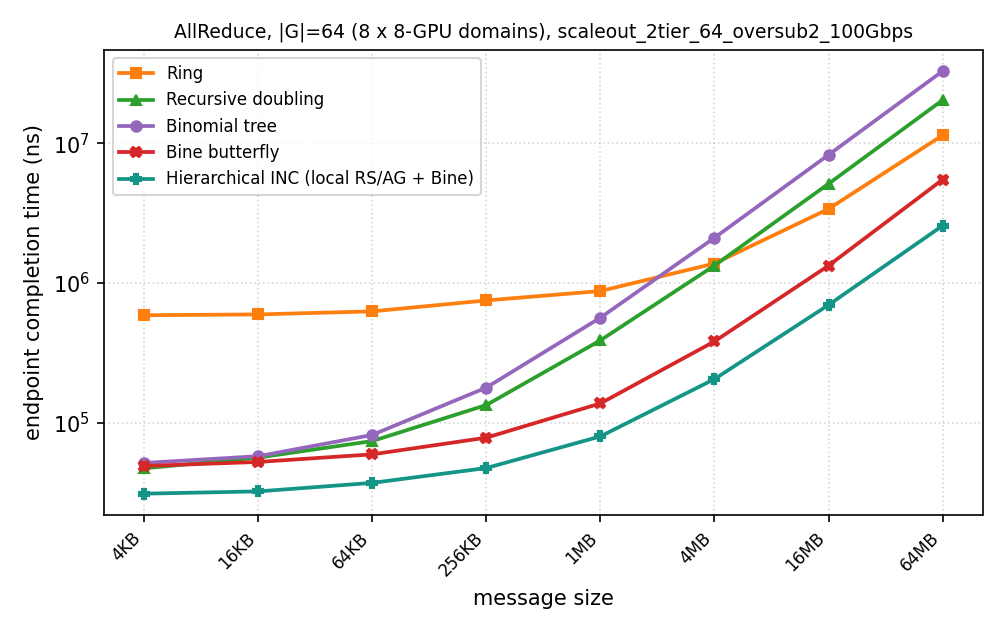
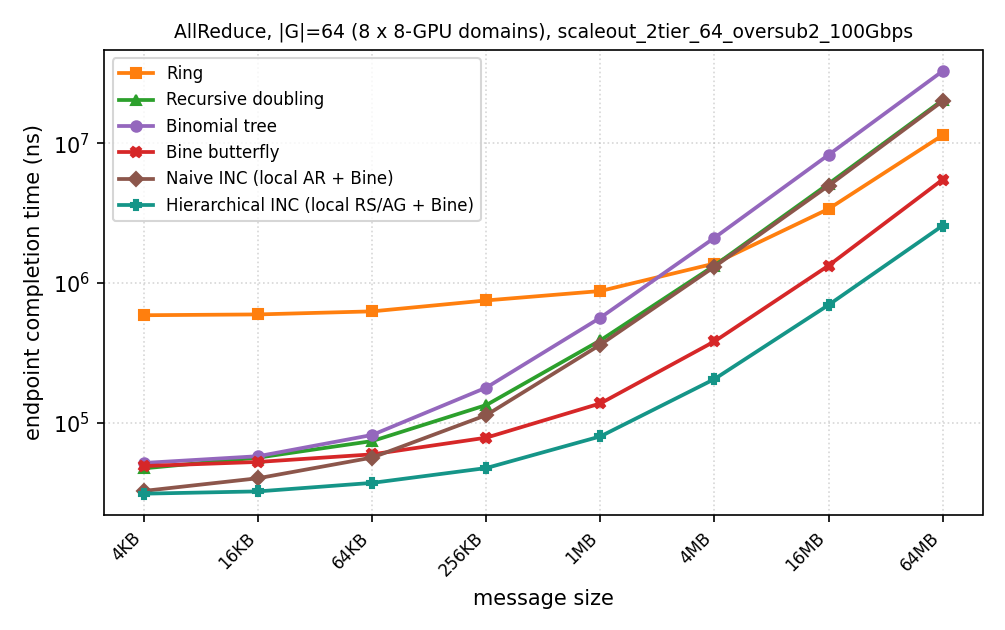
experiments: add naive scaleout INC baseline

diff --git a/simulation-scripts/experiments/scaleout_allreduce/run.py b/simulation-scripts/experiments/scaleout_allreduce/run.py
@@ -9,10 +9,14 @@ scale-up crossbar.
 
 The simulator's first-class INC primitive is intentionally node-local, so it
 cannot represent a single 64-rank in-network operation across scale-up domains.
-The default measurement therefore adds the semantically complete hierarchical
-variant: local INC ReduceScatter, lane-parallel Bine AllReduce across scale-out,
-then local INC AllGather.  ``plot.py`` labels it explicitly rather than
-presenting it as a hypothetical global in-network switch.
+The default measurement adds two valid multi-domain INC compositions.  The
+naive variant uses the existing node-local INC AllReduce followed by a
+full-buffer Bine AllReduce on every local-rank lane.  The hierarchical variant
+instead shards the buffer with local INC ReduceScatter, uses the same
+lane-parallel global AllReduce, then reconstructs it with local INC AllGather.
+The former is intentionally bandwidth-inefficient, but provides a direct
+baseline for the latter.  ``plot.py`` labels both explicitly rather than
+presenting either as a hypothetical global in-network switch.
 """
 import argparse
 import os
@@ -30,6 +34,7 @@ DEFAULT_SU_TOPO = "scaleup_single_switch_8_12800Gbps.topo"
 DEFAULT_SO_TOPO = "scaleout_2tier_64_oversub2_100Gbps.topo"
 DEFAULT_ALGOS = ("ring", "rdouble", "tree", "bine")
 HIERARCHICAL_INC_ALGO = "hier_inc_bine"
+NAIVE_INC_ALGO = "naive_inc_bine"
 INTRANODE_LINKSPEED = 12800000  # 12.8 Tbps, matched to DEFAULT_SU_TOPO.
 
 OUTPUT_DIR = os.environ.get("SCALEOUT_OUTPUT_DIR", paths.results_dir(EXP_NAME))
@@ -38,7 +43,7 @@ CSV_FIELDS = ["collective", "baseline_algo", "group_size", "gpus_per_node", "msg
               "intranode_linkspeed_mbps", "engine", "log_file", "command"]
 
 
-def run_exp(n, gpus_per_node, sizes, algos, hierarchical_inc,
+def run_exp(n, gpus_per_node, sizes, algos, hierarchical_inc, naive_inc, inc_only,
             su_topo, so_topo, tmpdir, timeout):
     """Generate and run direct endpoint schedules on a multi-domain fabric."""
     if n < 2 or n & (n - 1):
@@ -55,7 +60,7 @@ def run_exp(n, gpus_per_node, sizes, algos, hierarchical_inc,
     csv_path = os.path.join(OUTPUT_DIR, f"{EXP_NAME}.csv")
     failures = 0
     with report.CsvAppender(csv_path, CSV_FIELDS) as out:
-        for algo in algos:
+        for algo in (() if inc_only else algos):
             report.print_info(
                 f"=== allreduce baseline={algo} N={n} ({n // gpus_per_node} x {gpus_per_node}-GPU domains) ===")
             for size in sizes:
@@ -125,6 +130,42 @@ def run_exp(n, gpus_per_node, sizes, algos, hierarchical_inc,
                 })
                 print(f"  {size:>10}b  HIER-INC {str(base_ns):>6}  "
                       f"{'ok' if ok else f'{status}, drops={drops}'}")
+        if naive_inc:
+            report.print_info("=== allreduce naive INC (local AllReduce + full-buffer Bine lanes) "
+                              f"N={n} ({n // gpus_per_node} x {gpus_per_node}-GPU domains) ===")
+            for size in sizes:
+                if size % n:
+                    report.print_warning(f"{size}: skip (not divisible by N={n})")
+                    continue
+                stem = f"allreduce_{NAIVE_INC_ALGO}_{n}_{size}"
+                trace = os.path.join(tmpdir, stem + ".goal")
+                groups = trace[:-5] + ".groups"
+                goal.gen_naive_hierarchical_inc_allreduce_goal(
+                    trace, groups, n, gpus_per_node, size, "bine", TAIL_NS)
+                binary = trace[:-5] + ".bin"
+                goal.compile_goal(trace, binary)
+                finish, drops, status, command, _ = sim.run_sim(
+                    binary, so_topo, su_topo, nodes=n, gpus_per_node=gpus_per_node,
+                    groups=groups, timeout=timeout, intranode_linkspeed=INTRANODE_LINKSPEED)
+                base_ns = finish - TAIL_NS if finish else None
+                ok = bool(base_ns and status == "ok" and drops == 0)
+                if not ok:
+                    failures += 1
+                log = os.path.join(OUTPUT_DIR, "logs", stem + ".log")
+                os.makedirs(os.path.dirname(log), exist_ok=True)
+                with open(log, "w") as stream:
+                    stream.write(command + "\n")
+                out.write({
+                    "collective": "allreduce", "baseline_algo": NAIVE_INC_ALGO,
+                    "group_size": n, "gpus_per_node": gpus_per_node, "msg_bytes": size,
+                    "base_ns": base_ns or "", "base_makespan_ns": finish or "", "drops": drops,
+                    "fabric": "naive_inc_local_allreduce_full_buffer_lanes",
+                    "su_topo": os.path.basename(su_topo), "so_topo": os.path.basename(so_topo),
+                    "intranode_linkspeed_mbps": INTRANODE_LINKSPEED, "engine": "pcm-sdk",
+                    "log_file": log, "command": command,
+                })
+                print(f"  {size:>10}b  NAIVE-INC {str(base_ns):>5}  "
+                      f"{'ok' if ok else f'{status}, drops={drops}'}")
     if failures:
         report.print_error(f"{failures} simulation cell(s) failed; partial CSV: {csv_path}")
         return 1
@@ -142,6 +183,10 @@ def main():
                         help="comma-separated endpoint algorithms: ring,rdouble,tree,bine")
     parser.add_argument("--without-hierarchical-inc", action="store_false", dest="hierarchical_inc",
                         help="omit the local INC RS/AG + lane-Bine comparison arm")
+    parser.add_argument("--without-naive-inc", action="store_false", dest="naive_inc",
+                        help="omit the local INC AllReduce + full-buffer lane-Bine arm")
+    parser.add_argument("--inc-only", action="store_true",
+                        help="run only selected INC composition arms (reuse existing endpoint CSV rows)")
     parser.add_argument("--su-topo", default=DEFAULT_SU_TOPO)
     parser.add_argument("--so-topo", default=DEFAULT_SO_TOPO)
     parser.add_argument("--tmpdir", default="/tmp/scaleout_allreduce")
@@ -158,7 +203,10 @@ def main():
     goal.require_generator()
     sim.require_simulator()
     sizes = [int(s) for s in args.sizes.split(",")]
+    if args.inc_only and not (args.hierarchical_inc or args.naive_inc):
+        parser.error("--inc-only needs at least one INC arm")
     sys.exit(run_exp(args.n, args.gpus_per_node, sizes, algos, args.hierarchical_inc,
+                     args.naive_inc, args.inc_only,
                      paths.topo(args.su_topo), paths.topo(args.so_topo),
                      args.tmpdir, args.timeout))
 

diff --git a/simulation-scripts/common/goal.py b/simulation-scripts/common/goal.py
@@ -446,6 +446,77 @@ def gen_hierarchical_inc_allreduce_goal(path, groups_path, n, gpus_per_node, siz
         f.write(" ".join(str(rank) for rank in range(gpus_per_node)) + "\n")
 
 
+def gen_naive_hierarchical_inc_allreduce_goal(path, groups_path, n, gpus_per_node, size,
+                                              global_algo, tail_ns):
+    """Emit the direct two-level composition of the existing local INC primitive.
+
+    First run the existing ``coll allreduce`` independently in every scale-up
+    domain.  Then every matching local-rank lane performs a *full-buffer*
+    endpoint AllReduce across scale-out domains.  The composition is correct,
+    but intentionally naive: all ``gpus_per_node`` lanes ship the entire S-byte
+    result over scale-out.  In contrast,
+    :func:`gen_hierarchical_inc_allreduce_goal` uses local ReduceScatter and
+    AllGather so every lane ships only S/gpus_per_node.
+
+    This is the closest valid multi-domain version of the pre-existing remote
+    local INC path.  A literal 64-rank ``coll allreduce`` is invalid because
+    the PCM INC groups and FIBs are deliberately node-local.
+    """
+    if n < 2 or n & (n - 1):
+        raise ValueError(f"naive hierarchical INC AllReduce needs power-of-two N >= 2; got {n}")
+    if gpus_per_node < 2 or gpus_per_node & (gpus_per_node - 1):
+        raise ValueError(f"gpus_per_node must be a power of two >= 2; got {gpus_per_node}")
+    if n % gpus_per_node:
+        raise ValueError(f"N={n} must be divisible by gpus_per_node={gpus_per_node}")
+    if size <= 0 or size % (n // gpus_per_node):
+        raise ValueError(f"size must be positive and divisible by domain count; got {size}")
+    if global_algo not in ("rdouble", "bine"):
+        raise ValueError(f"unsupported naive global algorithm {global_algo!r}")
+
+    domains = n // gpus_per_node
+    stages = domains.bit_length() - 1
+
+    def peer_index(index, stage):
+        return (index ^ (1 << stage) if global_algo == "rdouble"
+                else _bine_partner(index, stage, domains))
+
+    def tag(stage, phase):
+        return f"8{stage:05d}{phase:03d}"
+
+    with open(path, "w") as f:
+        f.write(f"num_ranks {n}\n\n")
+        for rank in range(n):
+            domain, local_rank = divmod(rank, gpus_per_node)
+            local_ar_id = domain
+            label = 1
+            f.write(f"rank {rank} {{\n")
+            # nic 0 preserves the trace's one-NIC P2P rank mapping; the INC
+            # implementation routes through its own scale-up NIC object.
+            f.write(f"l{label}: coll allreduce {size}b 0 {local_ar_id} -1 cpu 1 nic 0\n")
+            previous, label = label, label + 1
+            rounds = [(stage, 0, size >> (stage + 1)) for stage in range(stages)]
+            rounds += [(stage, 1, size >> (stage + 1))
+                       for stage in range(stages - 1, -1, -1)]
+            for stage, phase, chunk in rounds:
+                peer = peer_index(domain, stage) * gpus_per_node + local_rank
+                gate, recv, send, join = label, label + 1, label + 2, label + 3
+                f.write(f"l{gate}: calc 0 cpu 0\n")
+                f.write(f"l{gate} requires l{previous}\n")
+                f.write(f"l{recv}: recv {chunk}b from {peer} tag {tag(stage, phase)} cpu 0 nic 0\n")
+                f.write(f"l{recv} requires l{gate}\n")
+                f.write(f"l{send}: send {chunk}b to {peer} tag {tag(stage, phase)} cpu 0 nic 0\n")
+                f.write(f"l{send} requires l{gate}\n")
+                f.write(f"l{join}: calc 0 cpu 0\n")
+                f.write(f"l{join} requires l{recv}\n")
+                f.write(f"l{join} requires l{send}\n")
+                previous, label = join, label + 4
+            f.write(f"l{label}: calc {tail_ns} cpu 0\n")
+            f.write(f"l{label} requires l{previous}\n")
+            f.write("}\n\n")
+    with open(groups_path, "w") as f:
+        f.write(" ".join(str(rank) for rank in range(gpus_per_node)) + "\n")
+
+
 def expected_steps(collective, n, algo_name):
     """Busiest rank's endpoint-step count.  ``count_steps`` measures sends, which
     is equal to this quantity for the symmetric Ring/recursive-doubling schedules;

diff --git a/simulation-scripts/experiments/scaleout_allreduce/plot.py b/simulation-scripts/experiments/scaleout_allreduce/plot.py
@@ -20,6 +20,7 @@ LINES = [
     ("rdouble", "#2ca02c", "^", "Recursive doubling"),
     ("tree", "#9467bd", "o", "Binomial tree"),
     ("bine", "#d62728", "X", "Bine butterfly"),
+    ("naive_inc_bine", "#8c564b", "D", "Naive INC (local AR + Bine)"),
     ("hier_inc_bine", "#159588", "P", "Hierarchical INC (local RS/AG + Bine)"),
 ]
 
